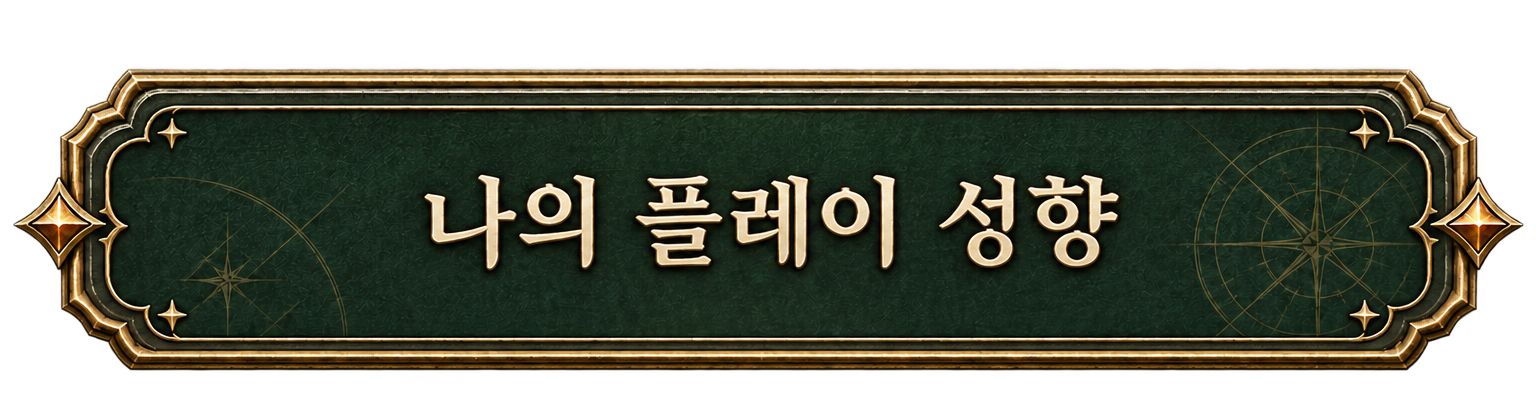
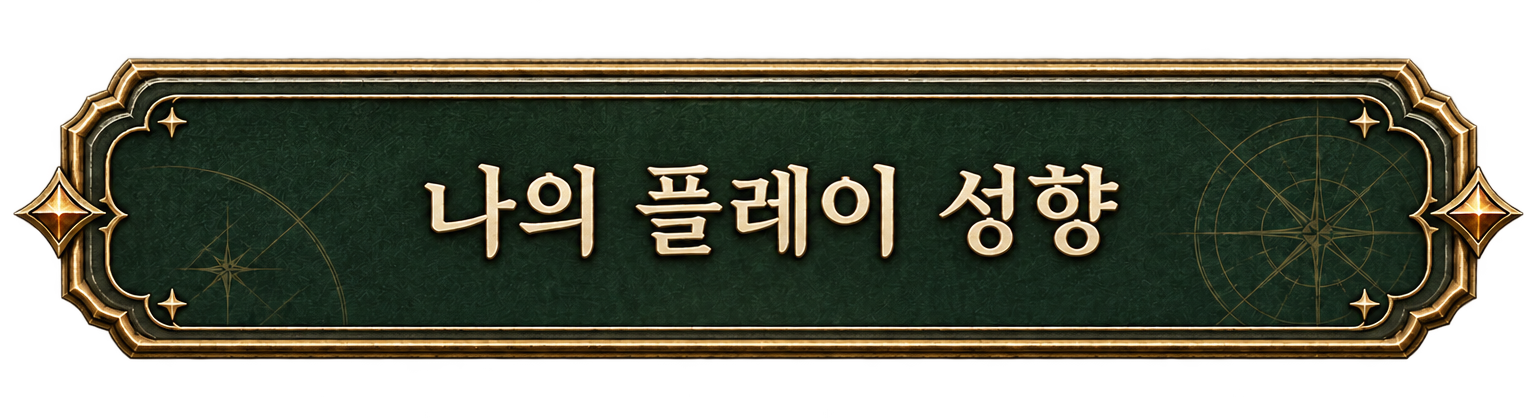
fix: 메인 등장 안정화, 시작 버튼 순서 교체, 질문/결과 버튼 상태 정렬·박스 높이 통일
- 메인 화면 첫 등장의 '커지고 이동' 제거: 등장 애니메이션을 페이드 전용으로
  바꾸고(16px 상승 삭제), 로딩 화면 동안 메인 문구 한글 서브셋을 미리 로드.
- 새로 시작하기 ↔ 교실 NBTI 시작하기 자리 교체 (보조 버튼 왼쪽, 주 버튼 오른쪽).
- 다음 질문 비활성 그림을 명패 중심 기준으로 재크롭 — 활성 전환 시 5px 어긋남 제거
  (두 상태 명패 위치 39..463 동일). 나의 플레이 성향 4상태도 동일 처리(8px 차 제거).
- 질문 화면 버튼 3종의 박스 높이를 최고 높이(66.9px)로 통일 — 마지막 질문에서
  결과 버튼으로 바뀔 때 보드 내용이 위로 밀리던 현상 제거 (제목 위치 306px 불변 계측).

diff --git a/src/features/journey/journey-shared.css b/src/features/journey/journey-shared.css
@@ -71,7 +71,11 @@
   .journey-scene--start .journey-start__audio-note,
   .journey-scene--start .journey-start__audio-note[data-tune-id='main-headphone-note'] { background: rgba(9,25,15,.66); border: 1px solid rgba(255,244,204,.28); border-radius: 999px; box-shadow: inset 0 1px rgba(255,255,255,.1); display: inline-flex; font-size: clamp(15px, 1.25vw, 23px); margin-top: clamp(22px, 3.4vh, 40px); padding: clamp(10px, 1.3vh, 15px) clamp(18px, 1.6vw, 30px); width: fit-content; }
   .journey-scene--start .journey-start__audio-note svg { height: clamp(17px, 1.3vw, 24px); width: clamp(17px, 1.3vw, 24px); }
-}.journey-enter { animation: journey-enter .22s both cubic-bezier(.2,.8,.2,1); }.journey-kicker { color: var(--gold); font-size: clamp(11px, .82vw, 15px); font-weight: 900; letter-spacing: .16em; margin: 0 0 16px; text-transform: uppercase; }.journey-kicker span { padding: 0 5px; }.journey-notice { background: rgba(8,23,13,.88); border: 1px solid rgba(246,216,127,.54); border-radius: 10px; bottom: auto; top: calc(clamp(62px, 8.3vh, 88px) + 12px); color: #fff4cb; font-size: 15px; font-weight: 700; left: 50%; margin: 0; max-width: min(90vw, 600px); padding: 11px 18px; position: fixed; text-align: center; transform: translateX(-50%); z-index: 20; }
+}.journey-enter { animation: journey-enter .22s both cubic-bezier(.2,.8,.2,1); }
+/* The start copy fades in WITHOUT the 16px rise — on the booth's first paint that rise
+   (stacked on the font swap) read as the layout failing to settle, not as an entrance. */
+@keyframes journey-fade { from { opacity: 0; } to { opacity: 1; } }
+.journey-scene--start .journey-start__copy.journey-enter { animation-name: journey-fade; }.journey-kicker { color: var(--gold); font-size: clamp(11px, .82vw, 15px); font-weight: 900; letter-spacing: .16em; margin: 0 0 16px; text-transform: uppercase; }.journey-kicker span { padding: 0 5px; }.journey-notice { background: rgba(8,23,13,.88); border: 1px solid rgba(246,216,127,.54); border-radius: 10px; bottom: auto; top: calc(clamp(62px, 8.3vh, 88px) + 12px); color: #fff4cb; font-size: 15px; font-weight: 700; left: 50%; margin: 0; max-width: min(90vw, 600px); padding: 11px 18px; position: fixed; text-align: center; transform: translateX(-50%); z-index: 20; }
 
 .journey-button { align-items: center; border-radius: 12px; cursor: pointer; display: inline-flex; font-weight: 900; justify-content: center; transition: background .2s ease, border-color .2s ease, box-shadow .2s ease, transform .2s ease; }.journey-button:hover:not(:disabled), .journey-button:focus-visible:not(:disabled) { box-shadow: inset 0 1px rgba(255,255,255,.62), 0 8px 16px rgba(0,0,0,.3); transform: translateY(-1px); }.journey-button:active:not(:disabled) { transform: translateY(1px); }.journey-button:disabled { cursor: not-allowed; opacity: .55; }.journey-button--primary { background: linear-gradient(112deg, #70ad4b 0%, #2f884f 48%, #07563a 100%); border: 1px solid #eadb9c; border-bottom: 4px solid #0a422d; box-shadow: 0 0 0 1px rgba(237,211,124,.3), inset 0 2px rgba(255,255,255,.5), inset 0 -8px 17px rgba(0,48,27,.24), 0 8px 15px rgba(0,0,0,.34); color: #fffdee; font-size: clamp(15px,1.25vw,21px); gap: 12px; min-height: 65px; padding: 0 22px; text-shadow: 0 2px 3px rgba(0,0,0,.3); }.journey-button--primary > span { flex: 1; text-align: center; }.journey-button__seal { height: 31px; width: 31px; }.journey-button--secondary { background: linear-gradient(135deg,#f6f1df,#d8c8a6); border: 1px solid #c8aa6b; border-bottom: 3px solid #947b54; box-shadow: inset 0 1px rgba(255,255,255,.82), inset 0 -5px 10px rgba(113,80,35,.08), 0 4px 10px rgba(0,0,0,.22); color: #3d3425; font-size: 14px; gap: 8px; min-height: 50px; padding: 0 18px; }
 

diff --git a/src/features/journey/journey-board.css b/src/features/journey/journey-board.css
@@ -116,7 +116,10 @@
 .journey-question-split > .journey-question__sidebar { background: linear-gradient(160deg, #fffbe8, #e9d3a0); }
 
 /* The drawn nav plaques, sized like the prep flow's. */
-.journey-nav-img { background: none; border: 0; cursor: pointer; flex: 0 0 auto; padding: 0; width: clamp(180px, 15vw, 236px); }
+/* Every nav plaque occupies the SAME box height (the tallest canvas: result at
+   418/1536 of the next/result width), so swapping 다음 질문 ↔ 나의 플레이 성향 on the
+   last question cannot change the footer's height and nudge the board copy upward. */
+.journey-nav-img { align-items: center; background: none; border: 0; cursor: pointer; display: inline-flex; flex: 0 0 auto; height: calc(clamp(188px, 15.6vw, 246px) * .2721); justify-content: center; padding: 0; width: clamp(180px, 15vw, 236px); }
 .journey-nav-img img { display: block; height: auto; width: 100%; }
 .journey-nav-img:disabled { cursor: default; }
 .journey-nav-img:not(:disabled):hover img, .journey-nav-img:focus-visible img { filter: brightness(1.09); }
@@ -194,7 +197,7 @@
   .journey-question-split .journey-question__choices .journey-choice b { font-size: 14px; }
   .journey-question-split .journey-question__choices .journey-choice small { font-size: 11px; margin-top: 3px; }
   .journey-panel__footer { padding-top: 8px; }
-  .journey-nav-img { width: 150px; }
+  .journey-nav-img { height: calc(156px * .2721); width: 150px; }
   .journey-nav-img--next, .journey-nav-img--result { width: 156px; }
   .journey-question-split > .journey-question__sidebar { display: none; }
 }

diff --git a/src/features/journey/scenes/NbtiScenes.tsx b/src/features/journey/scenes/NbtiScenes.tsx
@@ -204,8 +204,8 @@ export function StartScene(props: JourneySceneProps) {
           {journeyItems.map((item) => <li key={item.title}><Icon name={item.icon} size={25} /><span><b>{item.title}</b><small>{item.detail}</small></span></li>)}
         </ul>
         <div className="journey-start__actions">
-          <PrimaryButton onClick={() => setStarting('questions')} tuneId="main-primary-cta">교실 NBTI 시작하기</PrimaryButton>
           {props.state.resumeStage ? <SecondaryButton onClick={() => props.onAction({ type: 'RESUME_JOURNEY' })} tuneId="main-resume-cta"><Icon name="reset" size={20} />이전 여정 이어가기</SecondaryButton> : <SecondaryButton onClick={() => setStarting('reset')} tuneId="main-resume-cta"><Icon name="reset" size={20} />새로 시작하기</SecondaryButton>}
+          <PrimaryButton onClick={() => setStarting('questions')} tuneId="main-primary-cta">교실 NBTI 시작하기</PrimaryButton>
         </div>
         <p className="journey-start__audio-note" data-tune-id="main-headphone-note"><Icon name="speaker" size={17} />더욱 더 몰입감을 높이고 싶다면 BGM을 켜고 플레이해보세요 !</p>
       </div>

diff --git a/src/components/AdventurePrepScreen.tsx b/src/components/AdventurePrepScreen.tsx
@@ -257,6 +257,10 @@ export function AdventurePrepScreen({ initialProfile, audio, exiting, isOffline,
       </div>
       <p className="sr-only" role="status">교실 모험을 준비하는 중 {loadingProgress}%</p>
       {loadingError && <p className="entry-loading__error">{loadingError}</p>}
+      {/* Glyph preheat for the MAIN screen: its serif strings load their Korean font
+          subsets during these loading seconds, so the start title doesn't visibly grow
+          and re-centre the moment the scene appears. */}
+      <span aria-hidden="true" style={{ fontFamily: "'Gowun Batang', serif", position: 'absolute', visibility: 'hidden' }}>당신의 교실 플레이 모험이 시작됩니다 여러분의 선택으로 나의 유형을 발견하고, 선생님 캐릭터를 성장시켜 보세요 NBTI 새로 더욱 더 몰입감을 높이고 싶다면 켜고 해보세요 !</span>
     </main>
   }
 
